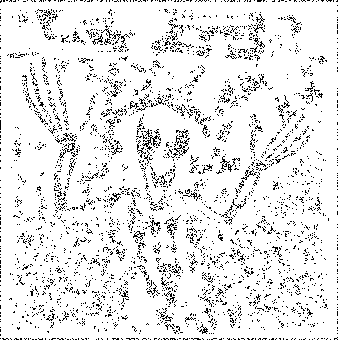
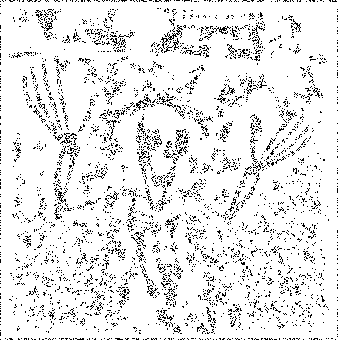
feat: abrir ventana con original y resultado

diff --git a/camara.py b/camara.py
@@ -1,6 +1,7 @@
 import sys
 from PIL import Image
 import random
+import matplotlib.pyplot as plt
 
 max_pruebas = 7
 
@@ -45,3 +46,15 @@ print("Explotadas:", explotadas)
 print("Detectadas:", detectadas)
 print("Inconclusos:", inconclusos)
 resultado_img.save("resultados/resultado.png")
+
+figura, ejes = plt.subplots(1, 2)
+
+ejes[0].imshow(imagen, cmap="gray", vmin=0, vmax=255)
+ejes[0].set_title("Original")
+ejes[0].axis("off")
+
+ejes[1].imshow(resultado_img, cmap="gray", vmin=0, vmax=255)
+ejes[1].set_title("Resultado")
+ejes[1].axis("off")
+
+plt.show()
